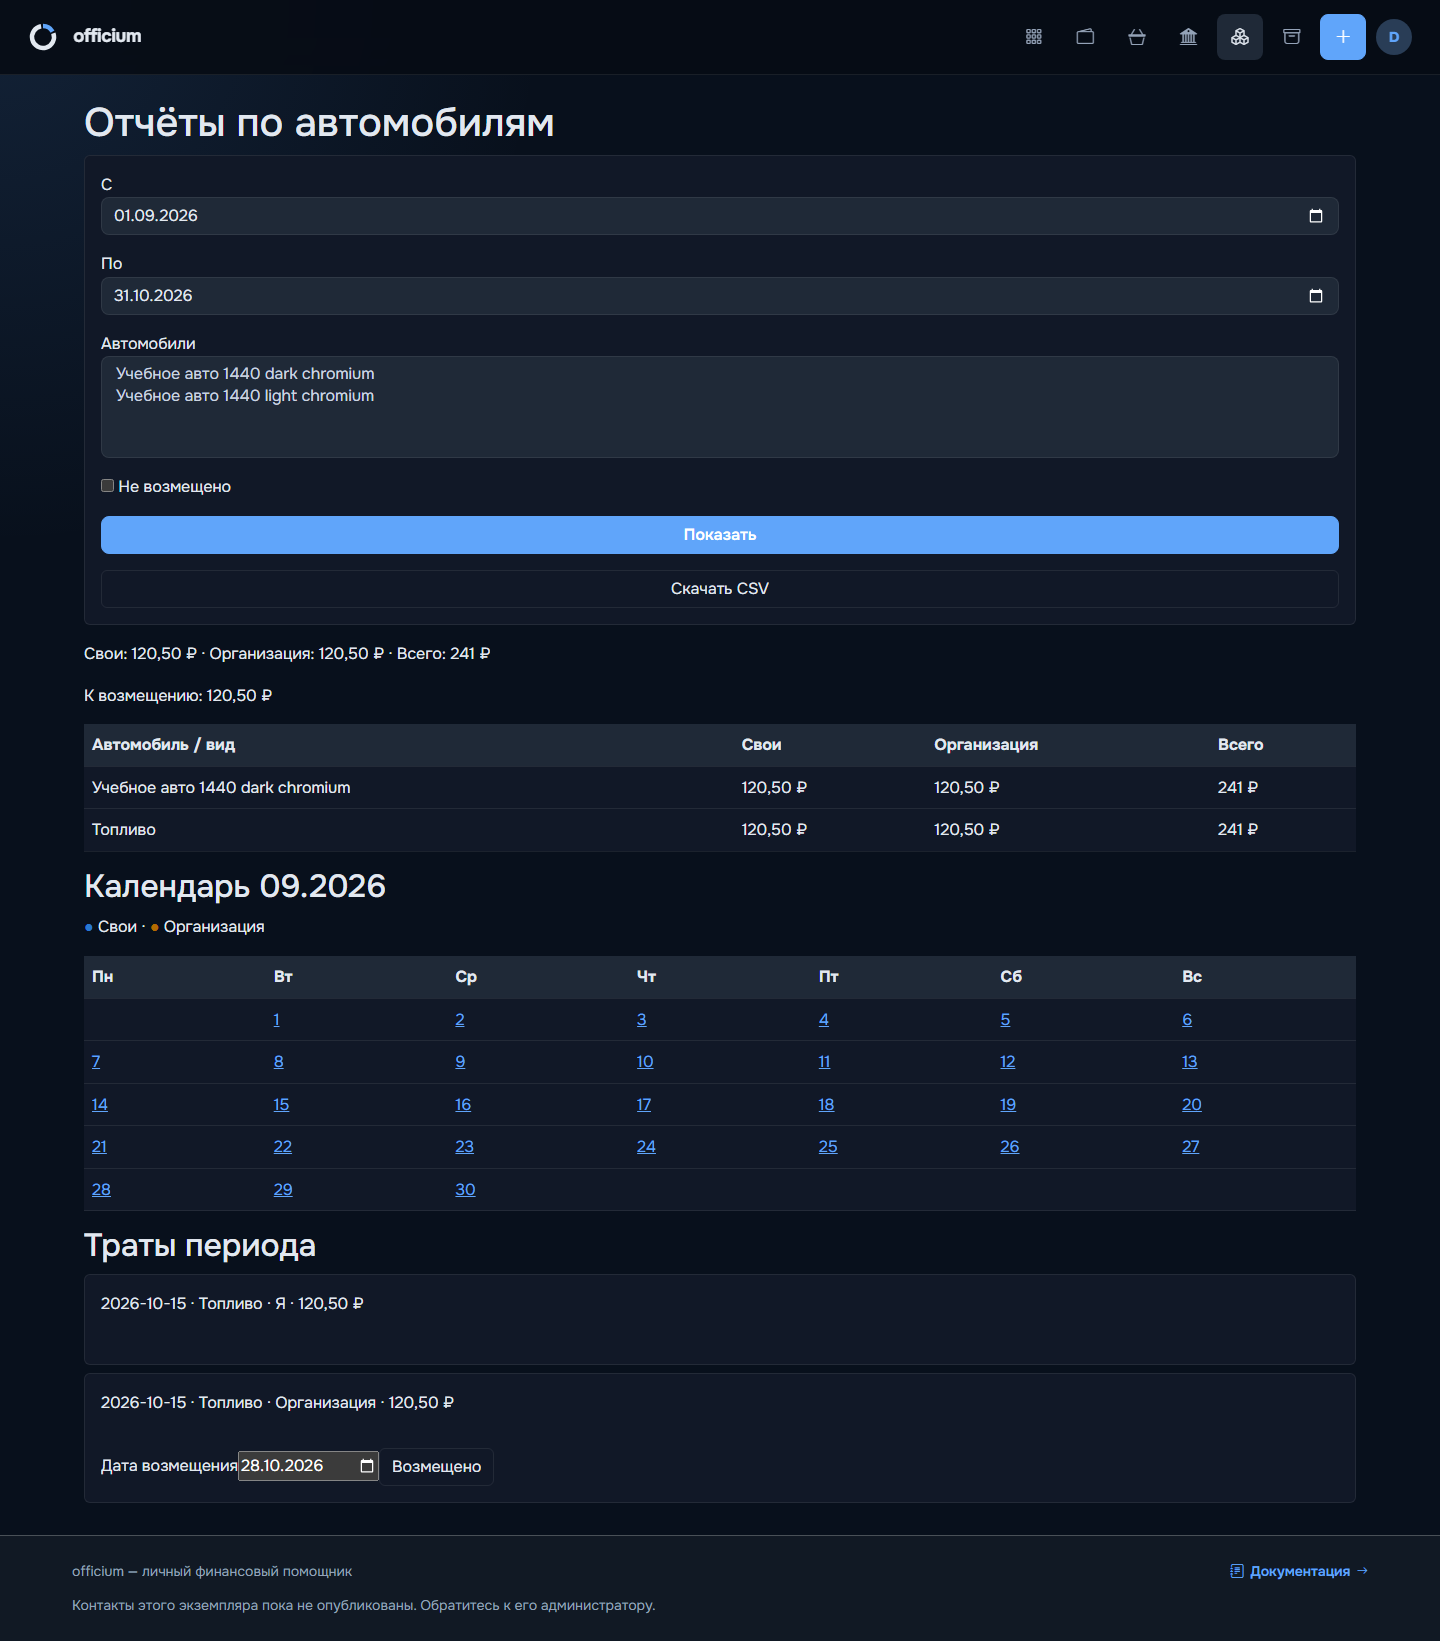
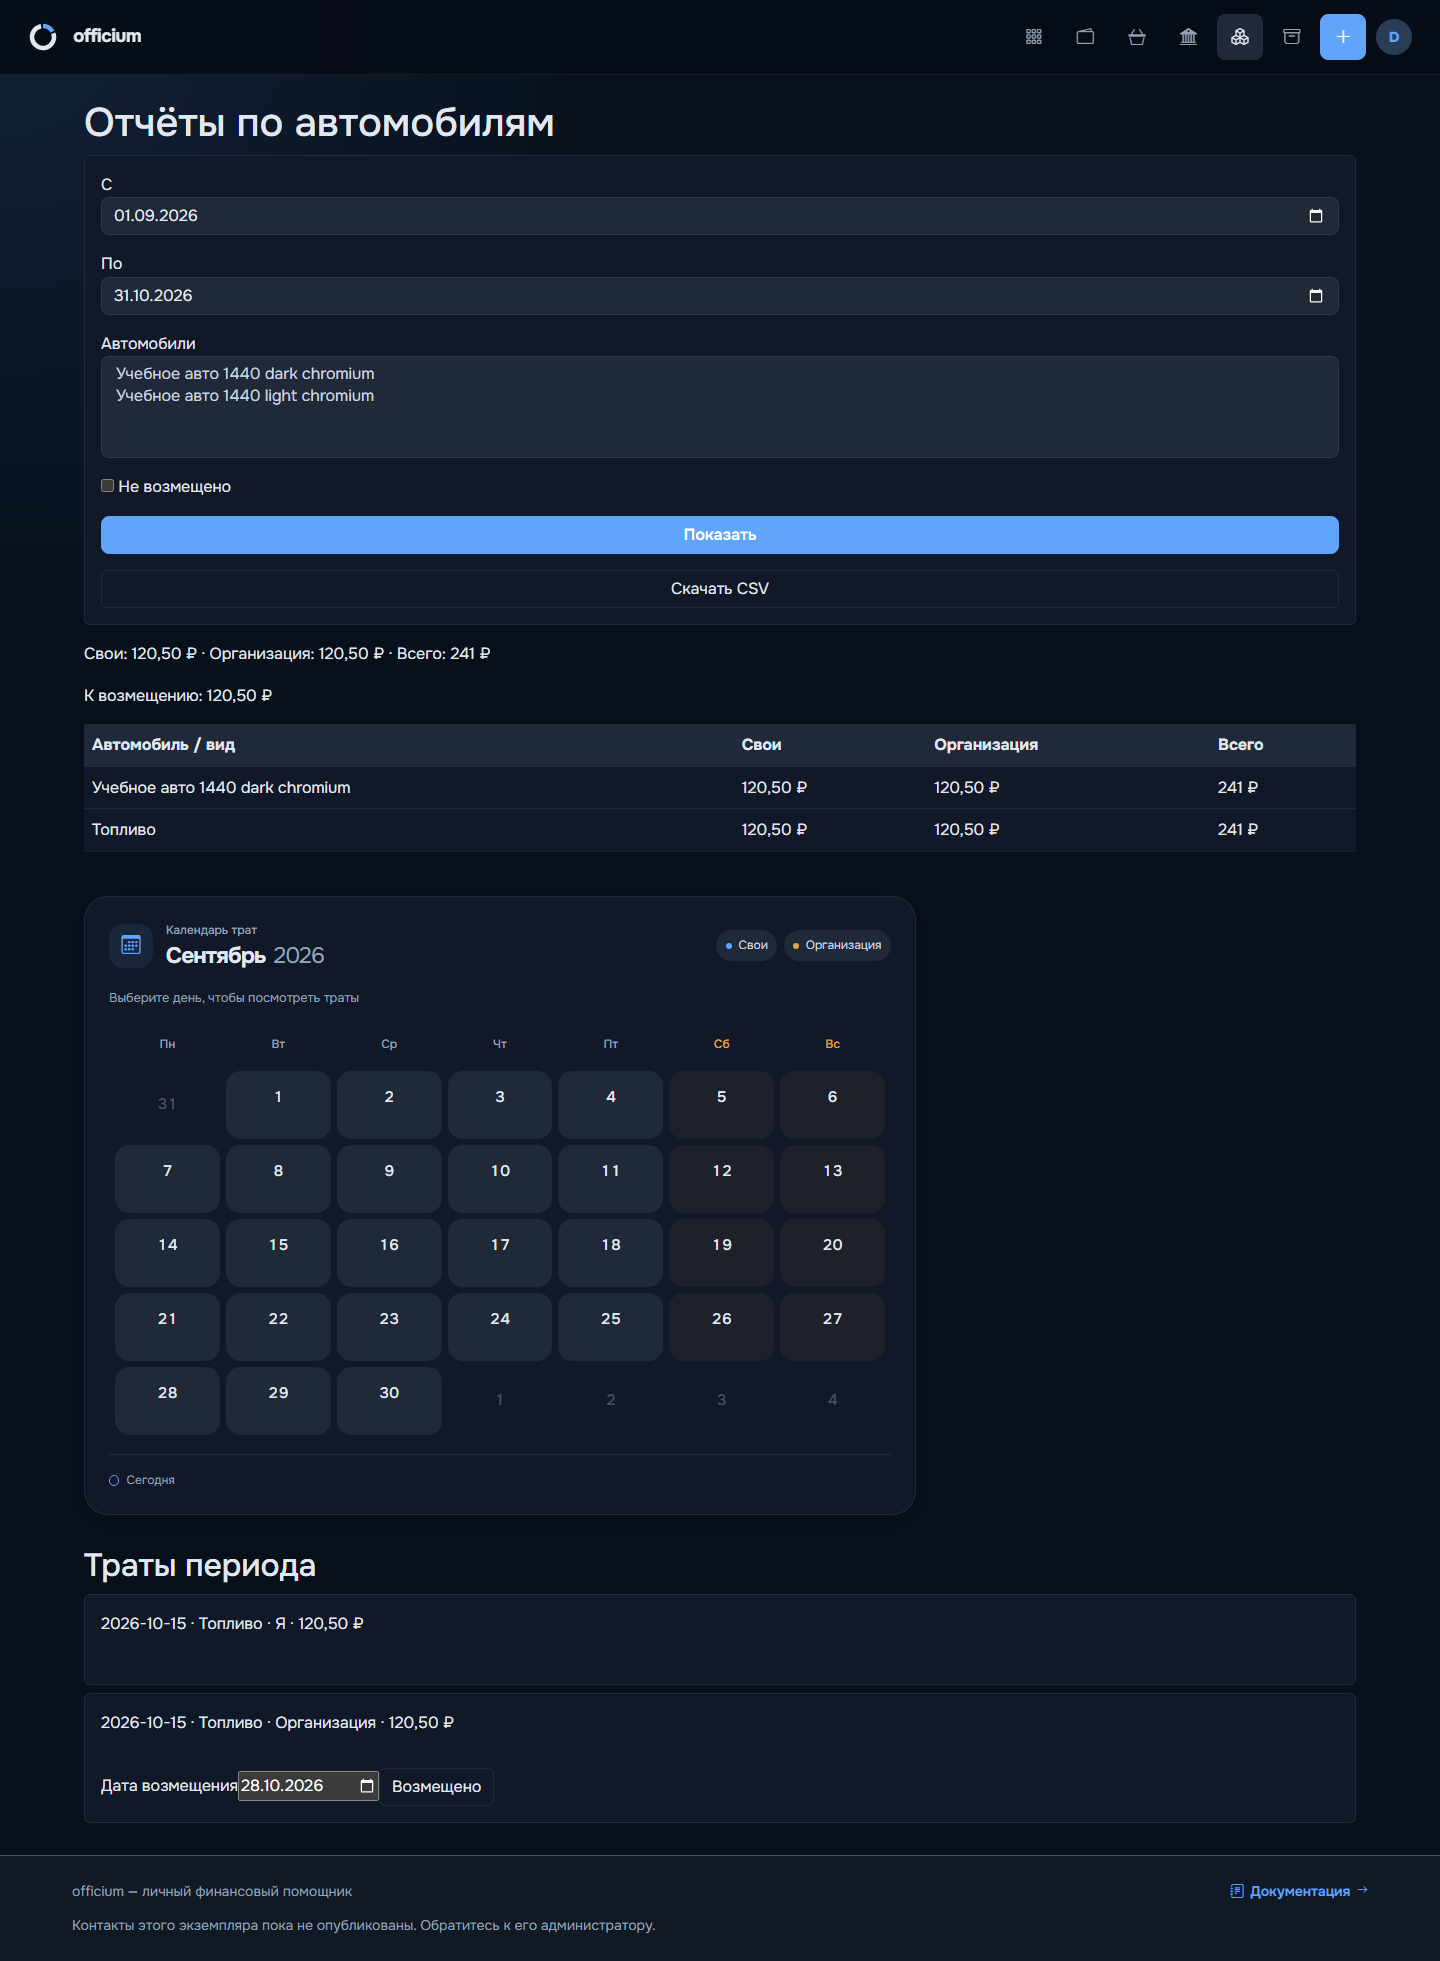
style(vehicles): refine spending calendar for both themes

diff --git a/templates/vehicles/report.html b/templates/vehicles/report.html
@@ -1,11 +1,42 @@
 {% extends 'base.html' %}
+{% block extra_css %}<link rel="stylesheet" href="{{ url_for('static', filename='css/vehicle-reports.css', v='calendar-2') }}">{% endblock %}
 {% block content %}<h1>Отчёты по автомобилям</h1>
 <form class="card p-3 d-flex gap-3" method="get"><label>С<input type="date" class="form-control" name="date_from" value="{{ report.start }}"></label><label>По<input type="date" class="form-control" name="date_to" value="{{ report.end }}"></label>
 <label>Автомобили<select class="form-select" name="vehicle_id" multiple>{% for v in report.vehicles %}<option value="{{ v.id }}" {% if v.id in report.selected_ids %}selected{% endif %}>{{ v.name }}</option>{% endfor %}</select></label>
 <label><input type="checkbox" name="unpaid" value="1" {% if report.unpaid %}checked{% endif %}> Не возмещено</label><button class="btn btn-primary">Показать</button><button class="btn btn-outline-primary" name="format" value="csv">Скачать CSV</button></form>
 <p class="mt-3">Свои: {{ report.totals.self|money }} · Организация: {{ report.totals.organization|money }} · Всего: {{ report.totals.total|money }}</p><p>К возмещению: {{ report.totals.unpaid|money }}</p>
 <div class="table-responsive"><table class="table"><thead><tr><th>Автомобиль / вид</th><th>Свои</th><th>Организация</th><th>Всего</th></tr></thead><tbody>{% for v in report.vehicles if v.id in report.per_vehicle %}{% set t=report.per_vehicle[v.id] %}<tr><td>{{ v.name }}</td><td>{{ t.self|money }}</td><td>{{ t.organization|money }}</td><td>{{ t.total|money }}</td></tr>{% endfor %}{% for key,t in report.kinds.items() if t.total %}<tr><td>{{ kinds[key] }}</td><td>{{ t.self|money }}</td><td>{{ t.organization|money }}</td><td>{{ t.total|money }}</td></tr>{% endfor %}</tbody></table></div>
-<h2>Календарь {{ report.start.strftime('%m.%Y') }}</h2><p><span style="color:#2878d0">●</span> Свои · <span style="color:#b36b00">●</span> Организация</p>
-<table class="table" style="table-layout:fixed"><thead><tr>{% for d in ['Пн','Вт','Ср','Чт','Пт','Сб','Вс'] %}<th>{{ d }}</th>{% endfor %}</tr></thead><tbody>{% for week in report.calendar %}<tr>{% for day in week %}<td>{% if day.month==report.start.month %}<a href="{{ url_for('vehicle_reports',date_from=report.start,date_to=report.end,vehicle_id=report.selected_ids|list,unpaid='1' if report.unpaid else '0',day=day.isoformat()) }}">{{ day.day }}</a>{% for payer in report.days.get(day,[]) %}<span style="color:{{ '#2878d0' if payer=='self' else '#b36b00' }}">●</span>{% endfor %}{% endif %}</td>{% endfor %}</tr>{% endfor %}</tbody></table>
+{% set month_names = ['Январь','Февраль','Март','Апрель','Май','Июнь','Июль','Август','Сентябрь','Октябрь','Ноябрь','Декабрь'] %}
+<section class="spend-calendar" aria-labelledby="spend-calendar-title">
+  <header class="spend-calendar__header">
+    <div class="spend-calendar__heading">
+      <span class="spend-calendar__icon" aria-hidden="true"><i class="bi bi-calendar3"></i></span>
+      <div><p class="spend-calendar__eyebrow">Календарь трат</p><h2 id="spend-calendar-title">{{ month_names[report.start.month-1] }} <span>{{ report.start.year }}</span></h2></div>
+    </div>
+    <div class="spend-calendar__legend" aria-label="Плательщики">
+      <span><i class="spend-calendar__dot spend-calendar__dot--self" aria-hidden="true"></i>Свои</span>
+      <span><i class="spend-calendar__dot spend-calendar__dot--organization" aria-hidden="true"></i>Организация</span>
+    </div>
+  </header>
+  <p class="spend-calendar__hint" id="spend-calendar-hint">Выберите день, чтобы посмотреть траты</p>
+  <table class="spend-calendar__grid" aria-describedby="spend-calendar-hint">
+    <caption class="visually-hidden">Календарь трат за {{ month_names[report.start.month-1] }} {{ report.start.year }}. Точки обозначают плательщика.</caption>
+    <thead><tr>{% for d in ['Пн','Вт','Ср','Чт','Пт','Сб','Вс'] %}<th scope="col" {% if loop.index > 5 %}class="spend-calendar__weekend"{% endif %}>{{ d }}</th>{% endfor %}</tr></thead>
+    <tbody>{% for week in report.calendar %}<tr>{% for day in week %}
+      {% set payers = report.days.get(day,[]) %}
+      <td>{% if day.month==report.start.month %}
+        <a class="spend-calendar__day{% if day==today %} is-today{% endif %}{% if day==report.selected_day %} is-selected{% endif %}{% if payers %} has-spending{% endif %}{% if day.weekday()>4 %} is-weekend{% endif %}"
+           href="{{ url_for('vehicle_reports',date_from=report.start,date_to=report.end,vehicle_id=report.selected_ids|list,unpaid='1' if report.unpaid else '0',day=day.isoformat(),_anchor='vehicle-day-spends') }}"
+           aria-label="{{ day.strftime('%d.%m.%Y') }}{% if 'self' in payers %}, свои траты{% endif %}{% if 'organization' in payers %}, траты организации{% endif %}{% if day==report.selected_day %}, выбран{% endif %}"
+           {% if day==today %}aria-current="date"{% endif %}>
+          <span class="spend-calendar__number">{{ day.day }}</span>
+          <span class="spend-calendar__markers" aria-hidden="true">{% for payer in ['self','organization'] if payer in payers %}<i class="spend-calendar__dot spend-calendar__dot--{{ payer }}"></i>{% endfor %}</span>
+        </a>
+      {% else %}<span class="spend-calendar__outside" aria-hidden="true">{{ day.day }}</span>{% endif %}</td>
+    {% endfor %}</tr>{% endfor %}</tbody>
+  </table>
+  <footer class="spend-calendar__footer"><span class="spend-calendar__today-key" aria-hidden="true"></span> Сегодня{% if report.selected_day %}<span class="spend-calendar__selection">Выбрано {{ report.selected_day.strftime('%d.%m') }}</span>{% endif %}</footer>
+</section>
+<div id="vehicle-day-spends" class="vehicle-day-spends"></div>
 {% if report.selected_day %}<h2>Траты {{ report.selected_day }}</h2>{% set rows=report.day_rows %}{% else %}<h2>Траты периода</h2>{% set rows=report.rows %}{% endif %}
 {% for row in rows %}<article class="card p-3 mb-2"><p>{{ row.date }} · {{ kinds[row.kind] }} · {{ 'Я' if row.payer=='self' else 'Организация' }} · {{ row.amount|money }}</p><p>{{ row.comment }}</p>{% if row.payer=='organization' %}{% set v=report.vehicles|selectattr('id','equalto',row.vehicle_id)|first %}{% if not v.archived_at and (row.unpaid or row.reimbursed_at) %}<form method="post" action="{{ url_for('vehicle_reimburse',cost_id=row.id) }}"><input type="hidden" name="csrf_token" value="{{ csrf_token() }}">{% if row.unpaid %}<label>Дата возмещения<input type="date" name="date" value="{{ today }}" required></label><button class="btn btn-outline-primary">Возмещено</button>{% else %}<button class="btn btn-outline-secondary">Снять отметку возмещения</button>{% endif %}</form>{% endif %}{% endif %}</article>{% else %}<p>Трат нет</p>{% endfor %}{% endblock %}

diff --git a/static/css/vehicle-reports.css b/static/css/vehicle-reports.css
@@ -1,0 +1,58 @@
+/* Scoped to the server-rendered vehicle spending calendar. */
+.spend-calendar {
+  --calendar-personal: #2878d0;
+  --calendar-organization: #c18016;
+  width: 100%;
+  max-width: 52rem;
+  margin: 1.75rem 0 2rem;
+  padding: 1.5rem;
+  border: 1px solid var(--border);
+  border-radius: 1.5rem;
+  background: var(--bg-card);
+  box-shadow: 0 8px 28px #00000005;
+}
+.spend-calendar__header { display: flex; flex-wrap: wrap; align-items: center; justify-content: space-between; gap: 1rem; }
+.spend-calendar__heading { display: flex; align-items: center; gap: .8rem; }
+.spend-calendar__icon { display: grid; place-items: center; width: 2.75rem; height: 2.75rem; border-radius: .9rem; background: color-mix(in srgb, var(--primary) 10%, transparent); color: var(--primary); font-size: 1.2rem; }
+.spend-calendar__eyebrow { margin: 0 0 .2rem; color: var(--text-muted); font-size: .75rem; font-weight: 500; }
+.spend-calendar h2 { margin: 0; color: var(--text); font-size: 1.4rem; font-weight: 650; letter-spacing: -.035em; }
+.spend-calendar h2 span { margin-left: .15rem; color: var(--text-muted); font-weight: 400; }
+.spend-calendar__legend { display: flex; flex-wrap: wrap; gap: .4rem; }
+.spend-calendar__legend > span { display: inline-flex; align-items: center; gap: .4rem; padding: .35rem .6rem; border-radius: 2rem; background: var(--bg-card-2); color: var(--text-dim); font-size: .75rem; }
+.spend-calendar__hint { margin: 1.1rem 0 .9rem; color: var(--text-muted); font-size: .8rem; }
+.spend-calendar__grid { width: 100%; border-collapse: separate; border-spacing: .4rem; table-layout: fixed; }
+.spend-calendar__grid th { padding: .4rem 0 .65rem; text-align: center; font-size: .75rem; font-weight: 500; color: var(--text-muted); }
+.spend-calendar__grid th.spend-calendar__weekend { color: var(--calendar-organization); }
+.spend-calendar__grid td { padding: 0; border: 0; vertical-align: middle; }
+.spend-calendar__day, .spend-calendar__outside { display: flex; flex-direction: column; align-items: center; justify-content: center; position: relative; width: 100%; min-height: 4.25rem; border-radius: .9rem; font-size: .95rem; font-weight: 500; font-variant-numeric: tabular-nums; }
+.spend-calendar__day { border: 1px solid transparent; background: var(--bg-card-2); color: var(--text); text-decoration: none; }
+.spend-calendar__day.is-weekend { background: color-mix(in srgb, var(--calendar-organization) 6%, var(--bg-card)); }
+.spend-calendar__day.has-spending { border-color: var(--border); }
+.spend-calendar__day.is-today .spend-calendar__number { outline: 1.5px solid var(--primary); outline-offset: 3px; border-radius: 50%; }
+.spend-calendar__number { display: grid; place-items: center; width: 1.5rem; height: 1.5rem; }
+.spend-calendar__markers { display: flex; align-items: center; justify-content: center; gap: 4px; height: 7px; margin-top: .5rem; }
+.spend-calendar__dot { display: inline-block; flex: 0 0 auto; width: 6px; height: 6px; border-radius: 50%; }
+.spend-calendar__dot--self { background: var(--calendar-personal); }
+.spend-calendar__dot--organization { background: var(--calendar-organization); }
+.spend-calendar__outside { color: var(--text-muted); opacity: .4; }
+.spend-calendar__day.is-selected { background: var(--primary); border-color: var(--primary); color: var(--bg-card); box-shadow: 0 4px 12px color-mix(in srgb, var(--primary) 20%, transparent); }
+.spend-calendar__day.is-selected .spend-calendar__dot { box-shadow: 0 0 0 1px var(--bg-card); }
+.spend-calendar__day.is-selected.is-today .spend-calendar__number { outline-color: currentColor; }
+.spend-calendar__day:focus-visible { outline: 3px solid var(--primary); outline-offset: 2px; }
+.spend-calendar__footer { display: flex; align-items: center; gap: .45rem; margin-top: .9rem; padding-top: 1rem; border-top: 1px solid var(--border); color: var(--text-muted); font-size: .75rem; }
+.spend-calendar__today-key { width: .65rem; height: .65rem; border: 1.5px solid var(--primary); border-radius: 50%; }
+.spend-calendar__selection { margin-left: auto; color: var(--primary); }
+.vehicle-day-spends { scroll-margin-top: 6rem; }
+:root[data-theme="dark"] .spend-calendar { --calendar-personal: #60a5fa; --calendar-organization: #e4a641; }
+@media (hover: hover) { .spend-calendar__day:hover { border-color: var(--primary); color: var(--primary); background: color-mix(in srgb, var(--primary) 9%, var(--bg-card)); } .spend-calendar__day.is-selected:hover { background: var(--primary); color: var(--bg-card); } }
+@media (prefers-reduced-motion: no-preference) { .spend-calendar__day { transition: background-color .16s ease, border-color .16s ease, box-shadow .16s ease; } }
+@media (max-width: 575px) {
+  .spend-calendar { padding: 1rem .65rem; border-radius: 1.15rem; }
+  .spend-calendar__header, .spend-calendar__hint, .spend-calendar__footer { margin-inline: .3rem; }
+  .spend-calendar__header { gap: .8rem; }
+  .spend-calendar h2 { font-size: 1.2rem; }
+  .spend-calendar__grid { border-spacing: .2rem; }
+  .spend-calendar__day, .spend-calendar__outside { min-height: 3.25rem; border-radius: .65rem; font-size: .85rem; }
+  .spend-calendar__markers { margin-top: .35rem; }
+  .spend-calendar__hint { font-size: .75rem; }
+}

diff --git a/tests/e2e/vehicle-costs.spec.js b/tests/e2e/vehicle-costs.spec.js
@@ -38,7 +38,17 @@ for (const width of [1440,390]) for (const theme of ['light','dark']) {
     await capture('custom-report');
     await page.goto(`/vehicles/reports?vehicle_id=${id}&date_from=2026-10-01&date_to=2026-10-31&day=2026-10-15`);
     await expect(page.getByRole('heading',{name:'Траты 2026-10-15'})).toBeVisible();
+    const calendar = page.locator('.spend-calendar');
+    await expect(calendar).toBeVisible();
+    await expect(calendar.locator('.is-selected')).toHaveAttribute('aria-label', /15.10.2026.*выбран/);
+    await expect(calendar.locator('.is-selected .spend-calendar__dot')).toHaveCount(2);
+    await calendar.getByRole('link', {name: /16.10.2026/}).click();
+    await expect(page.getByRole('heading',{name:'Траты 2026-10-16'})).toBeVisible();
+    await expect(calendar.locator('.is-selected')).toHaveAttribute('aria-label', /16.10.2026.*выбран/);
+    await calendar.getByRole('link', {name: /15.10.2026/}).click();
+    await page.evaluate(()=>scrollTo(0,0));
     await capture('calendar-day');
+    await calendar.screenshot({path:path.join(root,`${width}-${theme}-calendar-detail.png`),animations:'disabled',style:'.telegram-app-bar, .telegram-bottom-nav { visibility: hidden !important; }'});
     await page.getByLabel('Не возмещено',{exact:true}).check();
     await page.getByRole('button',{name:'Показать',exact:true}).click();
     await expect(page.locator('article')).toHaveCount(1);

diff --git a/CHANGELOG.md b/CHANGELOG.md
@@ -23,6 +23,8 @@
 
 ### Изменено
 
+- Календарь трат на автомобили: компактная карточка, крупные области выбора дня, отметки сегодняшнего и выбранного дня, адаптация к обеим темам.
+
 - Исправлены замечания ревью автомобилей: прицеп нельзя восстановить раньше
   архивного тягача, выключение гаража не блокирует существующие расходы,
   скрытое название прицепа не мешает сохранению другого типа автомобиля.
